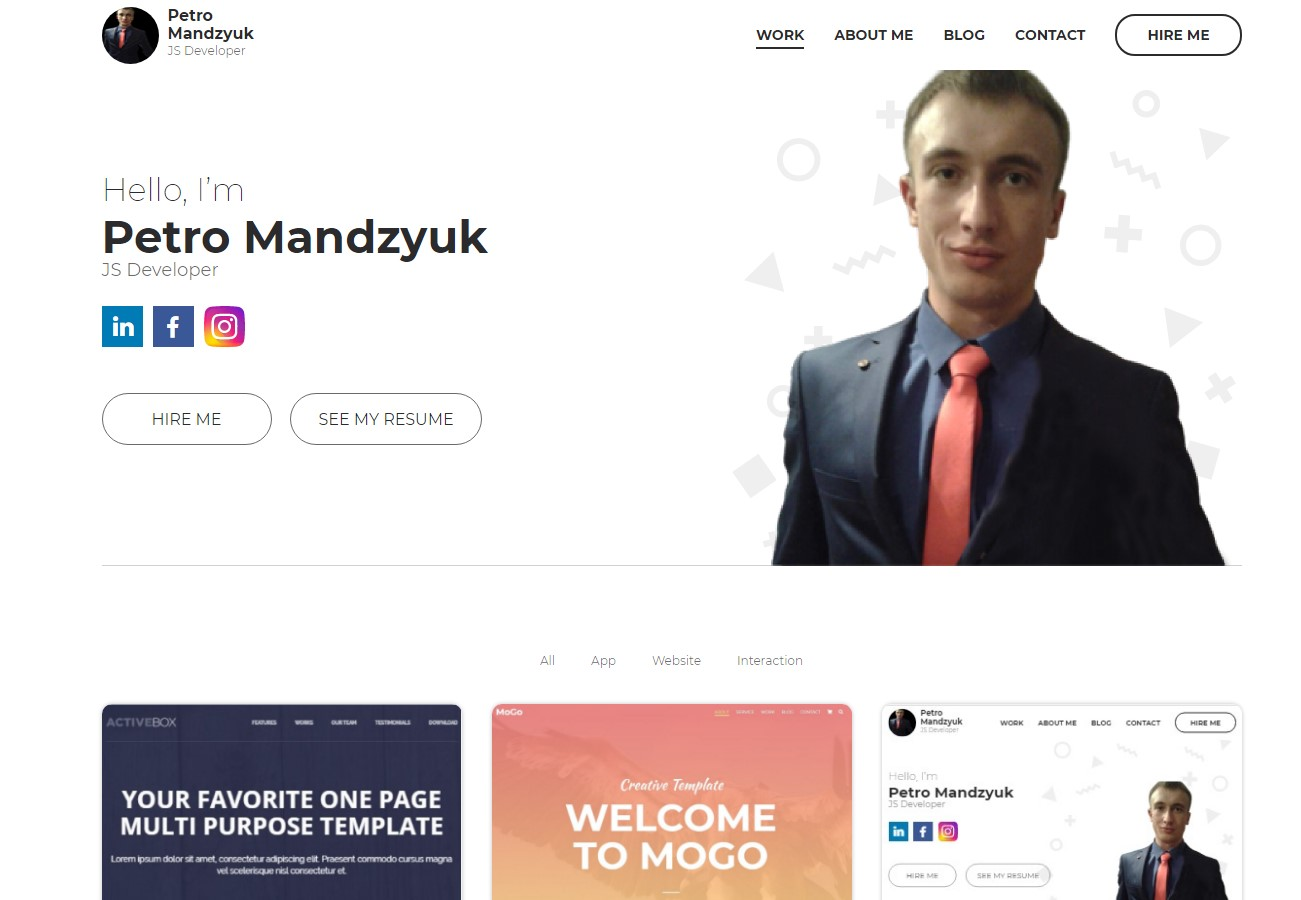
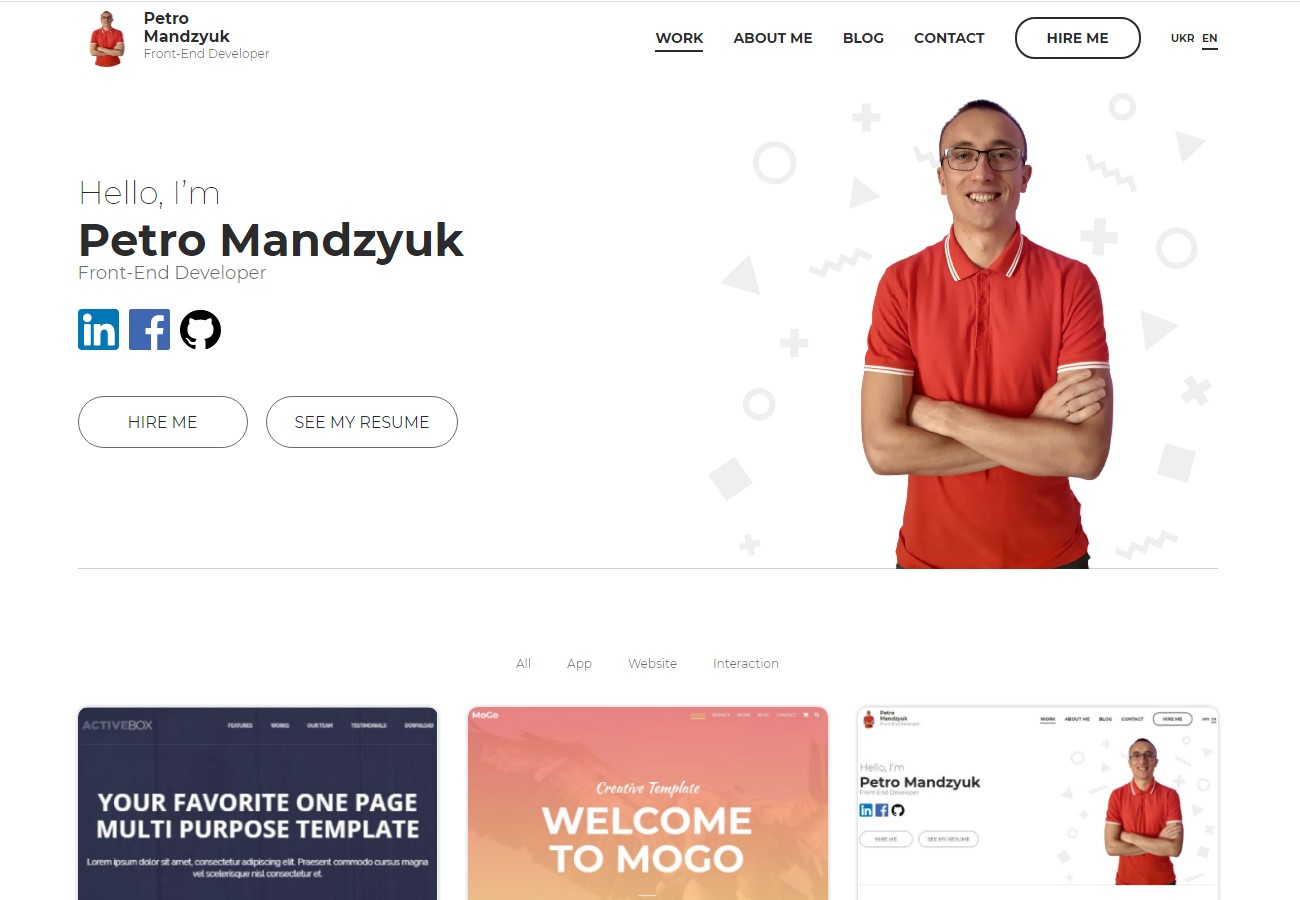
Changed Firt photo

diff --git a/JS/app.js b/JS/app.js
@@ -265,7 +265,7 @@ let worksArrForUKR = [
 
   `<div class="portfolio__col" data-cat="website">
 <div class="work" data-modal="#modal__project__3">
-  <img class="work__img" src="imgs/P3/Previu_img.jpg" alt="">
+  <img class="work__img" src="imgs/P3/PreviousPortfolio.jpeg" alt="">
   <div class="work__content">
     <div class="work_cat">Категорія: Вебсайт</div>
     <div class="work_title">My Portfolio
@@ -339,7 +339,7 @@ let worksArrForEN = [
 
   `<div class="portfolio__col" data-cat="website">
     <div class="work" data-modal="#modal__project__3">
-      <img class="work__img" src="imgs/P3/Previu_img.jpg" alt="">
+      <img class="work__img" src="imgs/P3/PreviousPortfolio.jpeg" alt="">
       <div class="work__content">
         <div class="work_cat">CATEGORY: Website</div>
         <div class="work_title">My Portfolio

diff --git a/index.html b/index.html
@@ -17,7 +17,7 @@
       <div class="header__inner">
         <div class="user" data-scroll="#intro">
           <div class="user__avatar">
-            <img src="imgs/logo3.png" alt="" height="57px" width="57px">
+            <img src="imgs/logo.jpeg" alt="" height="57px" width="57px">
           </div>
           <div class="user__content">
             <div class="user__name">
@@ -66,7 +66,7 @@
           <a class="btn" href="#" data-modal="#modal__here__me">НАЙНЯТИ</a>
           <button class="btn" href="#" type="button" data-modal="#modal__resume">Дивлюся резюме</button>
         </div>
-        <img class="intro__photo" src="imgs/photo__intro2.png" alt="">
+        <img class="intro__photo" src="imgs/PhotoOnFirstPage.png" alt="">
       </div><!-- /.intro__inner -->
     </div>
   </section>

diff --git a/page_en.html b/page_en.html
@@ -17,7 +17,7 @@
       <div class="header__inner">
         <div class="user" data-scroll="#intro">
           <div class="user__avatar">
-            <img src="imgs/logo3.png" alt="" height="57px" width="57px">
+            <img src="imgs/logo.jpeg" alt="" height="57px" width="57px">
           </div>
           <div class="user__content">
             <div class="user__name">
@@ -66,7 +66,7 @@
           <a class="btn" href="#" data-modal="#modal__here__me">HIRE ME</a>
           <button class="btn" href="#" type="button" data-modal="#modal__resume">SEE MY RESUME</button>
         </div>
-        <img class="intro__photo" src="imgs/photo__intro2.png" alt="">
+        <img class="intro__photo" src="imgs/PhotoOnFirstPage.png" alt="">
       </div><!-- /.intro__inner -->
     </div>
   </section>
